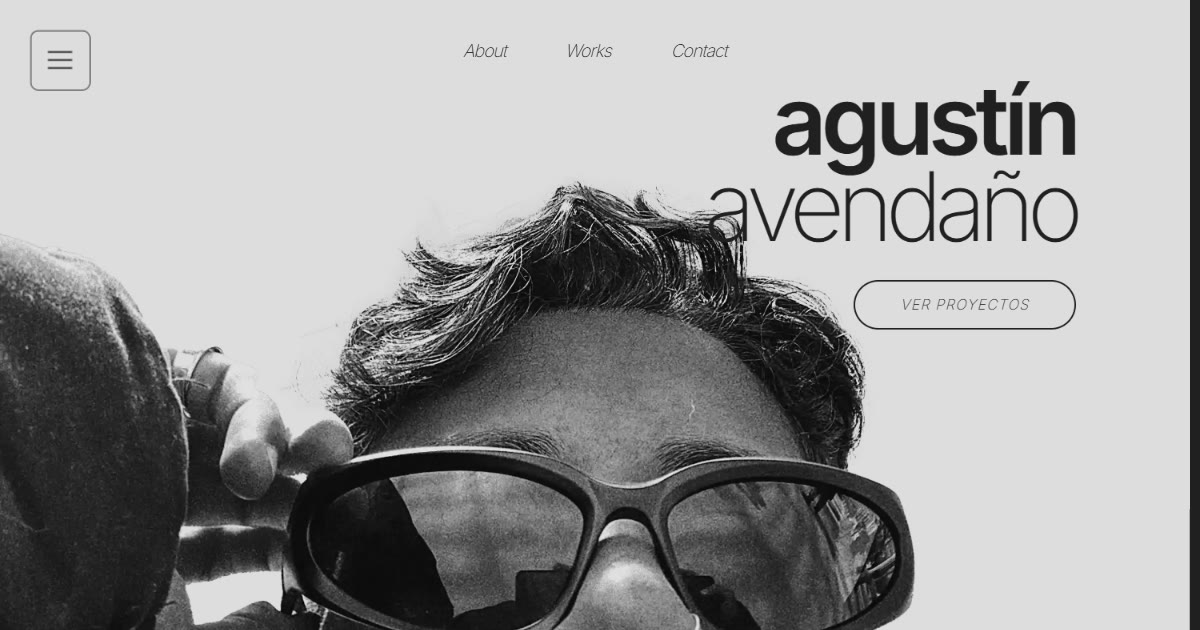
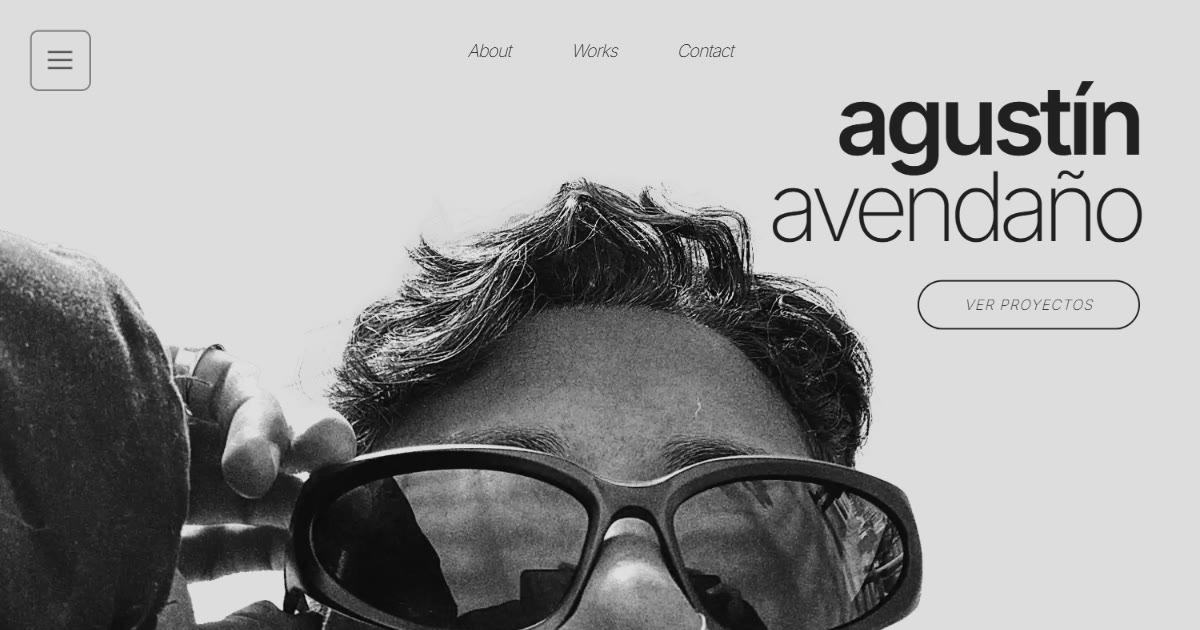
Corregir og-cover.jpg y espacio vacío en el hero
- Regenera img/og-cover.jpg ocultando la scrollbar del navegador
  al capturar, eliminando la franja oscura que quedaba pegada al
  borde derecho.
- Elimina el margin-right: 5% redundante en .hero-content
  (style.css), que se sumaba al padding fijo del .hero y crecía
  con el ancho de pantalla, dejando un hueco cada vez más grande
  a la derecha del texto y el botón en monitores anchos.

diff --git a/style.css b/style.css
@@ -361,9 +361,9 @@ body {
 .hero-content {
     position: relative;
     z-index: 10;
-    margin-left: auto;   
-    margin-right: 5%;   
-    text-align: right;   
+    margin-left: auto;
+    margin-right: 0;
+    text-align: right;
     animation: blurFadeUp 1s cubic-bezier(0.16, 1, 0.3, 1) forwards;
     will-change: opacity, transform;
     opacity: 0;
